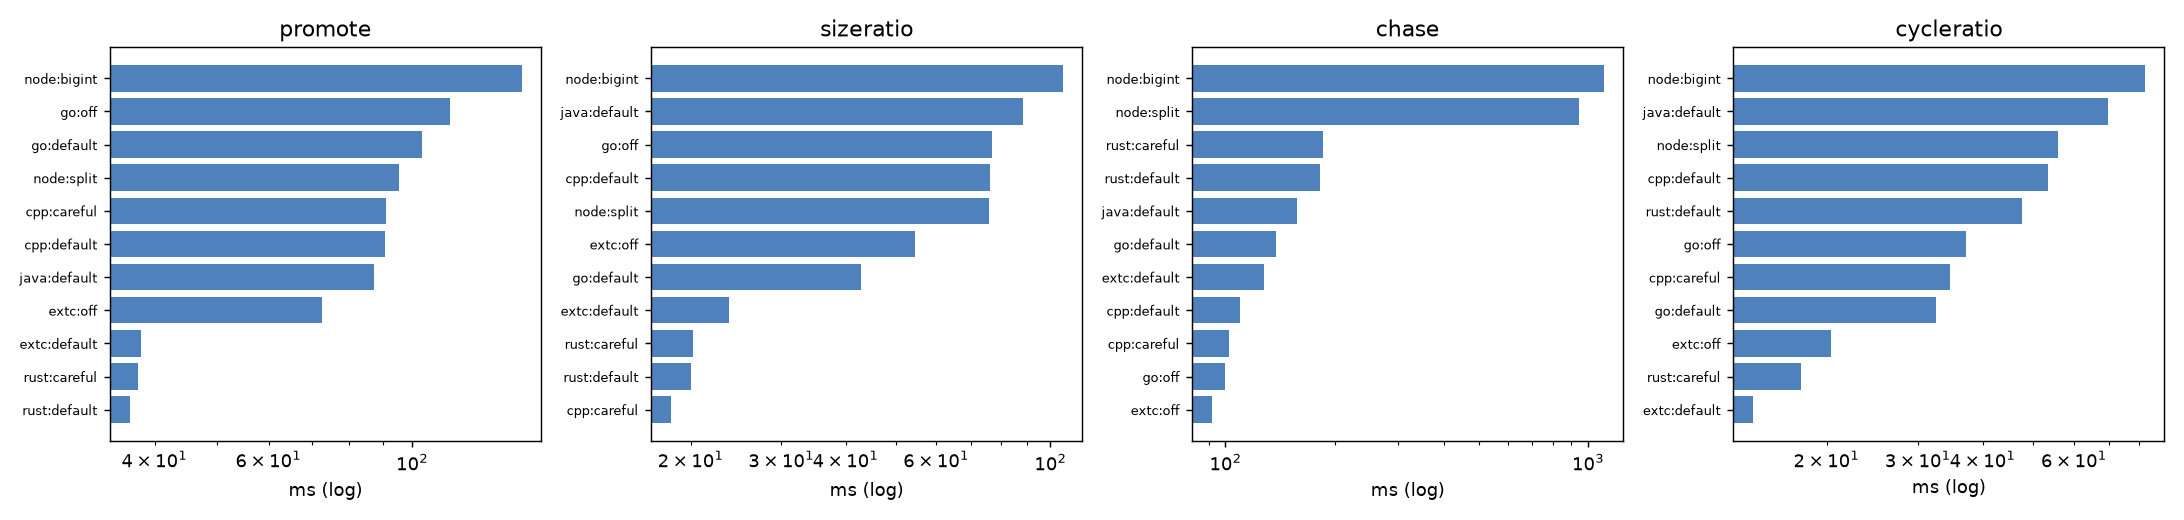
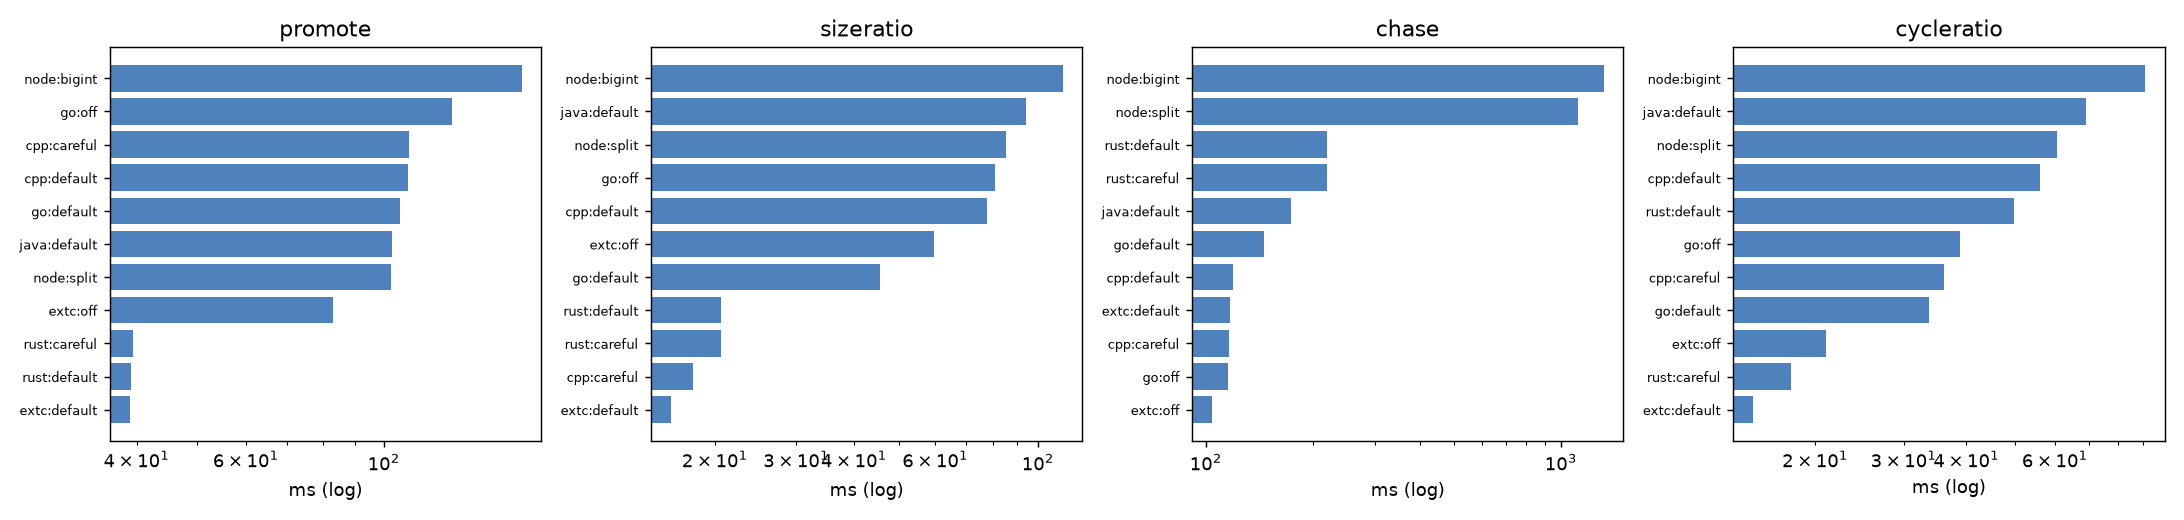
官方卡具完整复跑 gcbench v2（REPS=7、44 臂、stdout 全对齐）：四形状成绩单与 chase 的 RSS 台帐刷新，chase 与 C++ 最小值的差距为 1.1%

diff --git a/docs/changelog/2026-11.md b/docs/changelog/2026-11.md
@@ -2940,3 +2940,11 @@ cycleratio 14.31（35.30 / 17.37）；峰值 RSS 5,724 / 2,656 / 67,744 / 2,656 
 **结构**：不改编译器，只用 `/tmp/q2` 里同一份 v13 生成 C 的两个二进制（`chase.cur.g` = `{k,v,o}`、`chase.reord.g` = `{o,k,v}`，仅 `struct node` 字段顺序不同）加 `cpp:careful`，做 15 回合交错配对（奇偶反向、`taskset -c 6`、每臂首轮预热、每次核对 stdout 与 cpp 逐字节一致），再用 cachegrind 对同一输入 `1048576 20261013 4000000` 对比计数器。据此把 `docs/analysis/P1-PARITY.md` §5.2 改写为「重排无效」，关闭 §7 的 B 选项并撤回 D（应用层建议），`GC-ROOFLINE.md` §6.7.10 的 ③ 与结论同步并加「轮 3 补记」。
 
 **判据**：①配对中位 **reord:cur = 1.0231**（更慢）、min 比 1.0118，逐轮比值 0.93–1.14 全在噪声带；②cachegrind 同输入 D1mr **10,414,120 → 10,440,174**（+0.25%）、Ir 319,713,318 → 319,733,951、DLmr 150,727 → 150,806 ⇒ **重排不减少任何 miss**，收益前提不存在；③相位算术给出必然性：48 B 槽、块基址 512 KiB 对齐 ⇒ 槽起点 `p mod 64 ∈ {0,48,32,16}`，`{k,v,o}` 的 `o` 占 `[p+16,p+48)` 只在 `p=32` 跨线、`{o,k,v}` 的 `o` 占 `[p,p+32)` 只在 `p=48` 跨线，**两种顺序都是 1/4 跨线**，重排只是换拍子（旧推断「2/4 → 3/4」是相位表算错）。⇒ 轮 2 的 −2.8% 判为单发噪声，B/D 关闭；剩余选项只有 A（接受 1.03–1.05×）与 C（代际/记忆集，RSS 67.7 MB → 约 130 MB）。门禁：`./check.sh docs` 13/0、`check_changelog.py --gate`、`check_tree.py --gate`；本轮未改编译器源码（`build/extc` 仍 `8af2a5e8`，`reclaim.c` 仍 `7151a431`/4,212 行）。
+
+## 2026-11-10（大横评复跑） · 官方卡具完整复跑 gcbench v2：四形状 44 臂、stdout 全对齐，chase 与 C++ 的最小值差 1.1%
+
+**症状**：goal 收口前，chase 的台帐只来自自建卡具（`/tmp/fin/run.py`、`/tmp/q2`），需要一次官方卡具的全量复跑确认结论不是卡具效应；用户同时要求看完整成绩单与 chase 的 RSS 对比。
+
+**结构**：不改编译器，只跑官方流程：`B=/tmp/v2r3/build EXTC=$PWD/build/extc PIN=6 bash bench/gc/v2/run.sh align` 再 `B=/tmp/v2r3/build TSV=/tmp/v2r3/matrix.tsv REPS=7 PIN=6 EXTC=$PWD/build/extc bash bench/gc/v2/run.sh bench`，最后 `python3 bench/gc/v2/report.py /tmp/v2r3/matrix.tsv bench/gc/v2/REPORT.md bench/gc/v2/matrix.png bench/gc/v2/pause_v2.tsv` 重生成成绩单（`matrix.tsv` 同步换成本轮原始表）。停顿表沿用 v13 口径的 `pause_v2.tsv`（编译器自 v13 未改）。
+
+**判据**：①`align` rc=0、`bench` rc=0，44 个臂 stdout 与 extC 参考**逐字节相同**；②同轮 min ms（extC:default vs 该形状最快的 C++/Rust）：promote 39.0 vs Rust 39.1 / C++ 109.4、sizeratio 16.0 vs C++ 17.9 / Rust 20.6、cycleratio 15.0 vs Rust 17.9 / C++ 36.1、chase 117.3 vs **C++ 116.0**（min 差 1.1%，中位 129.2 vs 121.2）；③chase 峰值 RSS extC 66.2 MB vs C++ careful 75.8 MB / default 79.6 MB（低 12.7% / 17%），四形状 RSS 均不高于对手；④`matrix.png` / `matrix.tsv` / `REPORT.md` 三件与 TSV 一致。⇒ 与 goal 收口口径一致：三形状领先或在 1% 内，chase 残差 1–7% 且已定量为 GC 3.9% + 跨线 1.9%。门禁：`./check.sh docs` 13/0、`check_changelog.py --gate`、`check_tree.py --gate`；本轮未改编译器源码（`build/extc` 仍 `8af2a5e8`）。

diff --git a/docs/CHANGELOG.md b/docs/CHANGELOG.md
@@ -3,7 +3,7 @@
 **全仓库只有这里记录历史。** 正文按月份分页在 [`changelog/`](changelog/)；本页只是索引 —— 每月一页，不存正文。
 
 <!-- 月份表：`python3 tools/check_changelog.py --write` 重新生成 -->
-| [2026-11](changelog/2026-11.md) | 122 | 2026-11-01 → 2026-11-99 |
+| [2026-11](changelog/2026-11.md) | 123 | 2026-11-01 → 2026-11-99 |
 | [2026-10](changelog/2026-10.md) | 329 | 2026-10-03 → 2026-10-31 |
 | [2026-09](changelog/2026-09.md) | 133 | 2026-09-18 → 2026-09-26 |
 <!-- /月份表 -->
